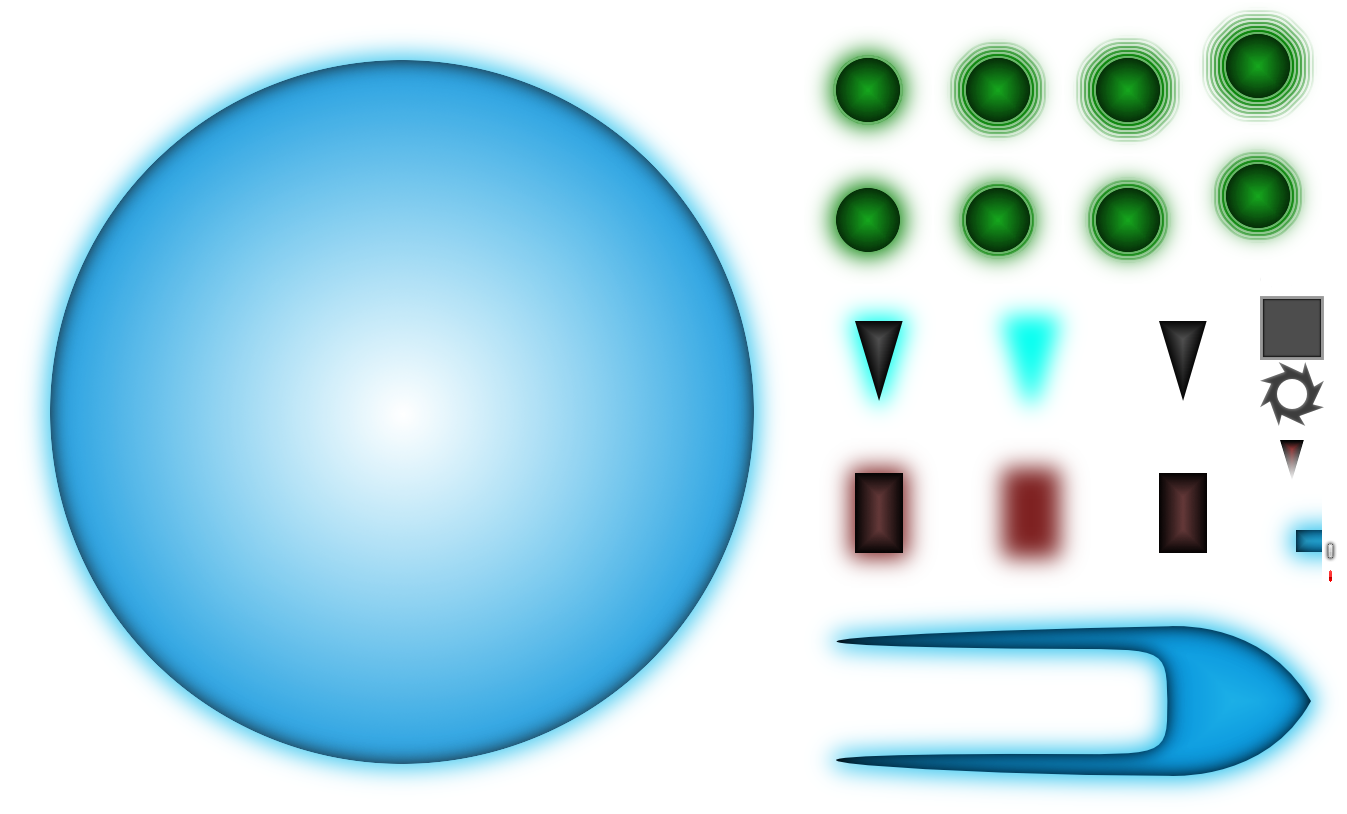
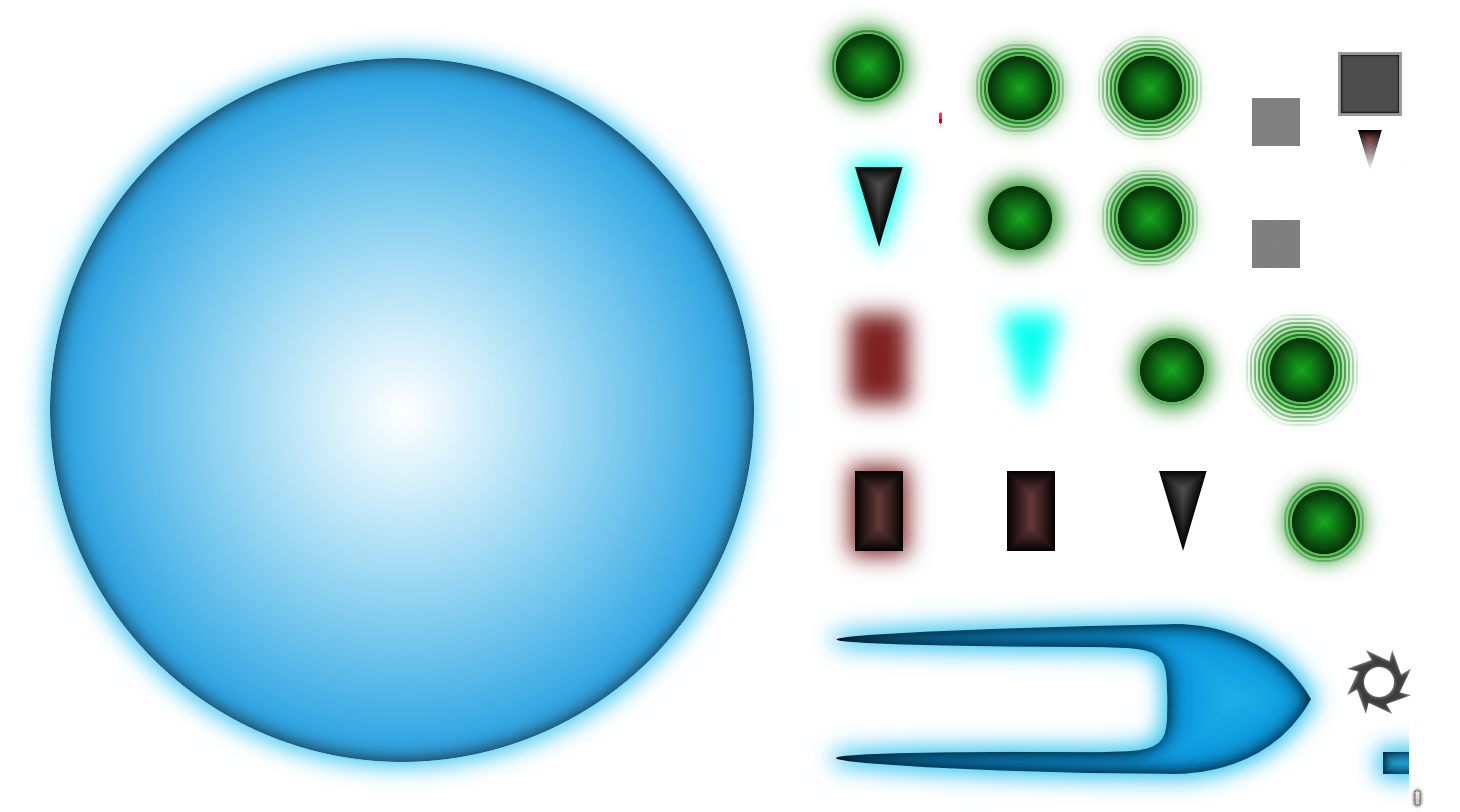
pulsating tooltip background

diff --git a/core/src/de/dakror/burst/ui/SkillSlot.java b/core/src/de/dakror/burst/ui/SkillSlot.java
@@ -1,9 +1,11 @@
 package de.dakror.burst.ui;
 
+import com.badlogic.gdx.graphics.Color;
 import com.badlogic.gdx.graphics.Texture.TextureFilter;
 import com.badlogic.gdx.graphics.g2d.Batch;
 import com.badlogic.gdx.graphics.g2d.BitmapFont;
 import com.badlogic.gdx.graphics.g2d.BitmapFont.TextBounds;
+import com.badlogic.gdx.graphics.g2d.NinePatch;
 import com.badlogic.gdx.graphics.g2d.TextureRegion;
 import com.badlogic.gdx.scenes.scene2d.ui.Button;
 import com.badlogic.gdx.scenes.scene2d.ui.Image;
@@ -21,6 +23,11 @@ public class SkillSlot extends Button
 {
 	Skill skill;
 	BitmapFont font;
+	
+	final Color c = new Color(1, 1, 1, 1);
+	float delta;
+	
+	static NinePatch bg_fg, bg_bg;
 	
 	public SkillSlot(Skill skill)
 	{
@@ -41,6 +48,21 @@ public class SkillSlot extends Button
 		
 		font = new BitmapFont();
 		font.setMarkupEnabled(true);
+		
+		if (bg_fg == null)
+		{
+			int s = 40;
+			bg_fg = new NinePatch(Burst.img.findRegion("glowBg_fg"), s, s, s, s);
+			bg_bg = new NinePatch(Burst.img.findRegion("glowBg_bg"), s, s, s, s);
+		}
+	}
+	
+	@Override
+	public void act(float delta)
+	{
+		super.act(delta);
+		if (isOver()) this.delta += delta;
+		else this.delta = 0;
 	}
 	
 	@Override
@@ -52,7 +74,14 @@ public class SkillSlot extends Button
 			String str = skill.getParsedDescription(Game.player);
 			int width = 200;
 			TextBounds tb = font.getWrappedBounds(str, width);
-			font.drawWrapped(batch, str, getX() - (tb.width - getWidth()) / 4, getY() + getHeight() + tb.height + 10, width);
+			
+			float x = getX() - (tb.width - getWidth()) / 4;
+			float y = getY() + getHeight() + tb.height + 10;
+			
+			bg_bg.setColor(c.set(1, 1, 1, (float) Math.sin(delta * Math.PI) * 0.4f + 0.6f));
+			bg_bg.draw(batch, x - 40, y - tb.height - 40, width + 80, tb.height + 80);
+			bg_fg.draw(batch, x - 40, y - tb.height - 40, width + 80, tb.height + 80);
+			font.drawWrapped(batch, str, x, y, width);
 		}
 	}
 }
